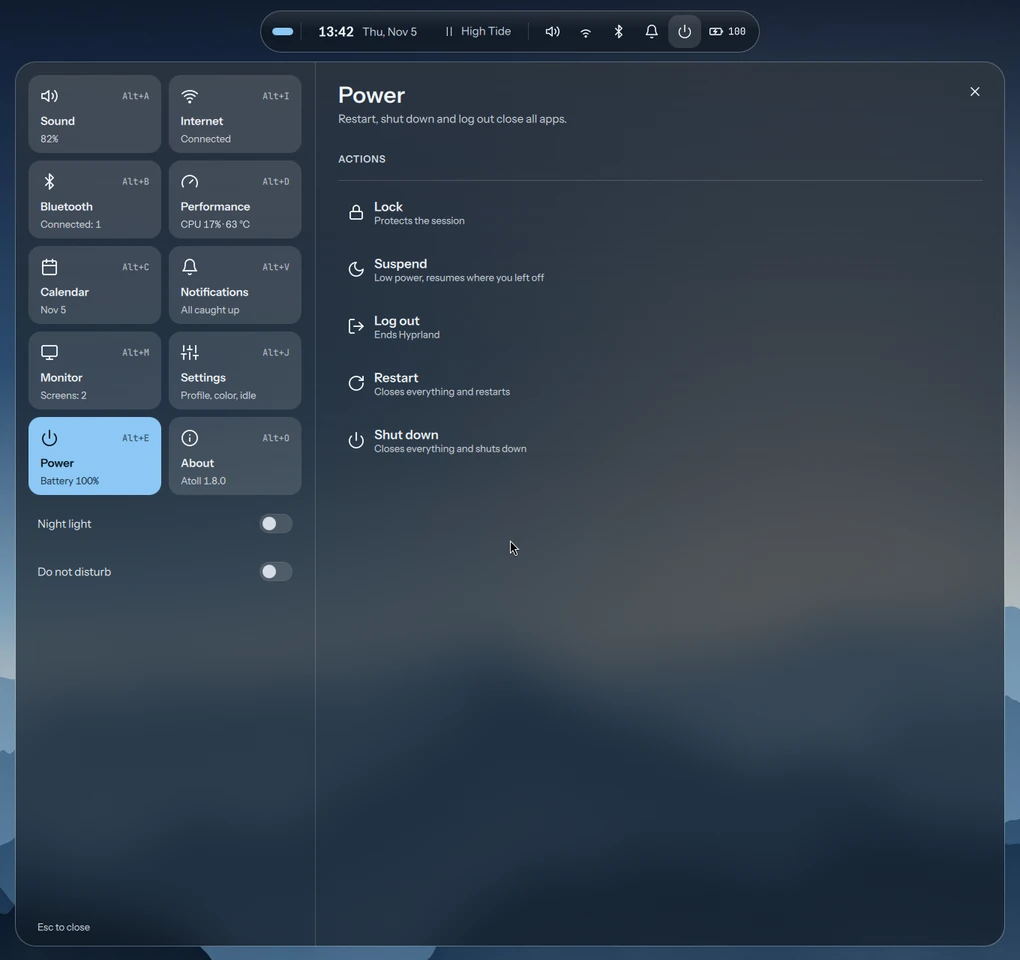
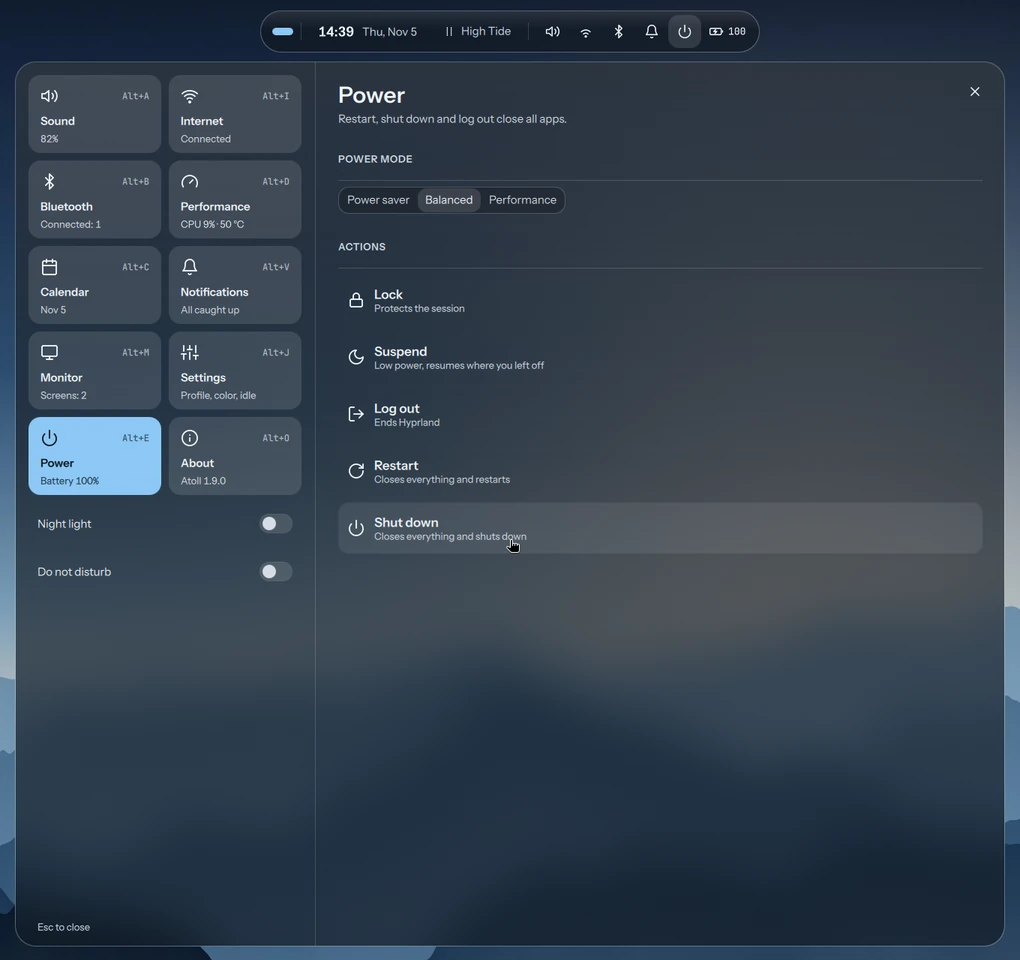
feat: one-click update in About and an AUR package definition
About can now install a newer release and restart the shell. When a package
manager owns the installation it points to that instead.

diff --git a/shell/PgAbout.qml b/shell/PgAbout.qml
@@ -14,7 +14,9 @@ Page {
         return out
     }
     property string latest: ""
-    property string updateState: "idle" // idle, checking, failed, done
+    property string updateState: "idle" // idle, checking, failed, done, updating
+    property string updateError: ""
+    property bool packaged: false // installed by a package manager, which then owns updates
     readonly property bool hasUpdate: !!latest && P.newerVersion(latest, Ui.version)
     readonly property string report: "Atoll " + Ui.version + "\n" + facts.trim() + "\nMemory=" + P.bytes(Sys.memInfo.total)
 
@@ -41,6 +43,22 @@ Page {
             echo "GPU=$(command -v lspci >/dev/null && lspci | grep -Ei 'vga|3d' | head -1 | cut -d: -f3- | sed 's/^ *//; s/ Corporation//; s/ (rev.*//')"
         `]
         stdout: StdioCollector { onStreamFinished: pg.facts = text }
+    }
+    Process {
+        running: true
+        command: ["test", "-e", "/usr/share/atoll/VERSION"]
+        onExited: code => pg.packaged = code === 0
+    }
+    Process {
+        id: updater
+        command: [Quickshell.env("HOME") + "/.local/share/atoll/scripts/self-update", pg.latest]
+        stderr: StdioCollector {}
+        // On success the script restarts the shell, so this page only ever sees failures.
+        onExited: code => {
+            if (code === 0) return
+            pg.updateError = Tr.t("Couldn't update. Check your connection.")
+            pg.updateState = "done"
+        }
     }
     Process {
         id: checker
@@ -71,13 +89,23 @@ Page {
             anchors.fill: parent; anchors.leftMargin: 16; anchors.rightMargin: 12; spacing: 12
             Tx {
                 Layout.fillWidth: true; strong: true
-                color: pg.updateState === "failed" ? Theme.danger : pg.updateState === "done" ? Theme.good : Theme.muted
+                color: pg.updateState === "failed" || pg.updateError ? Theme.danger : pg.updateState === "done" ? Theme.good : Theme.muted
                 text: pg.updateState === "checking" ? Tr.t("Checking…")
+                    : pg.updateState === "updating" ? Tr.t("Updating…")
+                    : pg.updateError ? pg.updateError
+                    : pg.hasUpdate && pg.packaged ? Tr.t("Version %1 is available. Update the package, then run atoll-setup.").arg(pg.latest)
                     : pg.updateState === "failed" ? Tr.t("Couldn't check. Check your connection.")
                     : pg.updateState !== "done" ? Tr.t("Not checked yet")
                     : pg.hasUpdate ? Tr.t("Version %1 is available").arg(pg.latest) : Tr.t("You have the latest version")
             }
             Link { visible: pg.hasUpdate; text: Tr.t("See what's new"); url: pg.repo + "/releases/latest" }
+            Btn {
+                visible: pg.hasUpdate && !pg.packaged
+                variant: "solid"
+                text: Tr.t("Update now")
+                enabledB: pg.updateState === "done"
+                onClicked: { pg.updateError = ""; pg.updateState = "updating"; updater.running = true }
+            }
             Btn {
                 text: Tr.t("Check for updates")
                 enabledB: pg.updateState !== "checking"

diff --git a/README.md b/README.md
@@ -22,14 +22,16 @@ wallpaper, and windows keep the rest of the screen.
 - **Control center:** sound, internet, Bluetooth, performance, calendar, notifications, monitor, settings, about and power.
 - **Music card:** cover art, colors taken from the album, seek bar, repeat, shuffle, likes, volume and output switching.
 - **Notifications and volume:** glass cards that drop from under the island.
-- **Search:** apps and system screens in one box. Type "wifi" or "volume".
+- **Search:** apps, system screens, clipboard history, emoji and screenshots in one place. Type "wifi" or "volume".
 - **Languages:** English, Português (Brasil), Español, Français, Deutsch, Русский and 简体中文. It follows your system language, or pick one in Settings.
 - **Lock screen:** a large clock, the current song and your profile's name and picture over your sharp wallpaper. It also greets you when waking from suspend, with no flash of the desktop.
-- **Profiles:** each one keeps its own name, picture and wallpaper (from galleries you add to), language, accent, dock and idle times. Create and switch them in Settings.
+- **Profiles:** each one keeps its own name, picture and wallpaper (from galleries you add to and remove from, with a wallpaper per screen if you like), language, accent, dock and idle times. Create and switch them in Settings.
 - **Public holidays:** for over 200 countries in the calendar, or none. Choose in Settings.
 - **Monitors:** drag your screens into place, and set resolution, refresh rate, scale, rotation, mirroring, VRR, brightness, workspaces and what closing the lid does. A new layout goes back by itself in 15 seconds unless you keep it.
-- **Idle:** lock, screen off and suspend times per power source, each with a Never option, and night light.
-- **About:** version, update check, project links and system details to paste in a bug report.
+- **Idle and power:** lock, screen off and suspend times per power source, each with a Never option, power modes, and a night light with its own schedule.
+- **Keyboard and mouse:** layouts, pointer speed, natural scrolling and touchpad options in Settings.
+- **Internet:** Wi-Fi with hidden and enterprise (802.1X) networks, plus WireGuard and OpenVPN files you import.
+- **About:** version, one-click update, project links and system details to paste in a bug report.
 - **Resilient by design:** if the shell crashes, it restarts by itself. Your windows stay open.
 
 ## Screenshots
@@ -71,7 +73,8 @@ Screenshots use demo data.
 - **Hyprland with Lua configuration.** Developed on 0.56.2. Older versions without `hl.*` will not work.
 - **Quickshell** 0.3 or newer.
 - NetworkManager, BlueZ and PipeWire with WirePlumber for the matching screens.
-- Noto fonts (`noto-fonts`, `noto-fonts-cjk`) to display Russian and Chinese.
+- Noto fonts (`noto-fonts`, `noto-fonts-cjk`, `noto-fonts-emoji`) to display Russian, Chinese and emoji.
+- Optional: `power-profiles-daemon` for power modes, `networkmanager-openvpn` for OpenVPN files.
 
 Atoll is developed and tested on one machine: Arch Linux with an Intel GPU. Other distributions and
 GPUs may work, and reports are welcome.
@@ -84,6 +87,13 @@ On Arch Linux:
 git clone https://github.com/brayanspagnol/atoll.git
 cd atoll
 ./install.sh --deps
+```
+
+Or from the AUR, then run the setup as your own user:
+
+```sh
+yay -S atoll
+atoll-setup
 ```
 
 On other distributions, install the packages listed in `install.sh` and run `./install.sh`.
@@ -111,6 +121,7 @@ for `sudo`; everything else stays in your home directory. See `./install.sh --he
 | `Super+Alt+A` / `I` / `B` / `D` | Sound / Internet / Bluetooth / Performance |
 | `Super+Alt+C` / `V` / `J` / `E` | Calendar / Notifications / Settings / Power |
 | `Super+Alt+M` / `O` | Monitor / About |
+| `Super+Shift+V` / `Super+.` | Clipboard history / Emoji |
 | `Super+Enter` | Terminal |
 | `Super+B` / `E` | Browser / Files |
 | `Super+C` | Close window |
@@ -154,7 +165,7 @@ hl.bind("SUPER + Return", hl.dsp.exec_cmd("foot"))
 ## Update and remove
 
 ```sh
-git pull && ./install.sh   # update; settings, events and likes stay
+git pull && ./install.sh   # update; settings, events and likes stay. About can also do this in one click
 ./uninstall.sh             # remove; add --purge to delete your data too
 ```
 
@@ -172,7 +183,7 @@ git pull && ./install.sh   # update; settings, events and likes stay
 
 ## Privacy
 
-Atoll needs no account and sends no telemetry. Two features use the network. The update check in About asks GitHub for the latest release, only when you click it. And when you open the calendar or Settings, it
+Atoll needs no account and sends no telemetry. Notification history, which can include message text, stays on your computer in `~/.local/state/atoll`, readable only by you; Clear all erases it. Two features use the network. The update check in About asks GitHub for the latest release, only when you click it. And when you open the calendar or Settings, it
 downloads public holidays from [date.nager.at](https://date.nager.at), which sees your IP address and the country and years
 requested. Results stay cached in `~/.cache/atoll/holidays`. Set `holidays` to `off` to turn this off.
 

diff --git a/README.pt-BR.md b/README.pt-BR.md
@@ -20,14 +20,16 @@ Os prints estão no [README em inglês](README.md#screenshots).
 - **Central:** som, internet, Bluetooth, desempenho, calendário, avisos, monitor, ajustes, sobre e energia.
 - **Cartão de música:** capa, cores tiradas do álbum, barra de tempo, repetir, aleatório, curtidas, volume e troca de saída.
 - **Avisos e volume:** cartões de vidro que descem de baixo da ilha.
-- **Busca:** aplicativos e telas do sistema no mesmo lugar. Digite "wifi" ou "volume".
+- **Busca:** aplicativos, telas do sistema, histórico da área de transferência, emoji e prints no mesmo lugar. Digite "wifi" ou "volume".
 - **Idiomas:** English, Português (Brasil), Español, Français, Deutsch, Русский e 简体中文. Segue o idioma do sistema, ou escolha em Ajustes.
 - **Tela de bloqueio:** relógio grande, música atual, nome e foto do perfil, sobre o seu papel de parede nítido. Ela também recebe você ao voltar da suspensão, sem o desktop piscar antes.
-- **Perfis:** cada um guarda nome, foto e papel de parede (de galerias que você vai adicionando), idioma, cor, dock e tempos de ociosidade. Crie e troque em Ajustes.
+- **Perfis:** cada um guarda nome, foto e papel de parede (de galerias em que você adiciona e remove, com um papel de parede por tela se quiser), idioma, cor, dock e tempos de ociosidade. Crie e troque em Ajustes.
 - **Feriados:** de mais de 200 países no calendário, ou nenhum. Escolha em Ajustes.
 - **Monitores:** arraste as telas para posicionar e ajuste resolução, taxa, escala, rotação, espelhamento, VRR, brilho, áreas de trabalho e o que fechar a tampa faz. Uma disposição nova volta sozinha em 15 segundos se você não mantiver.
-- **Ociosidade:** tempos de bloqueio, desligar a tela e suspender para tomada e bateria, cada um com a opção Nunca, e luz noturna.
-- **Sobre:** versão, busca por atualização, links do projeto e dados do sistema para relatar bugs.
+- **Ociosidade e energia:** tempos de bloqueio, desligar a tela e suspender para tomada e bateria, cada um com a opção Nunca, modos de energia e luz noturna com horário próprio.
+- **Teclado e mouse:** layouts, velocidade do ponteiro, rolagem natural e opções do touchpad em Ajustes.
+- **Internet:** Wi-Fi com redes ocultas e corporativas (802.1X), mais arquivos WireGuard e OpenVPN que você importa.
+- **Sobre:** versão, atualização com um clique, links do projeto e dados do sistema para relatar bugs.
 - **Resistente:** se o shell cair, ele volta sozinho. Suas janelas continuam abertas.
 
 ## Requisitos
@@ -48,6 +50,13 @@ No Arch Linux:
 git clone https://github.com/brayanspagnol/atoll.git
 cd atoll
 ./install.sh --deps
+```
+
+Ou pelo AUR, e rode a configuração com seu próprio usuário:
+
+```sh
+yay -S atoll
+atoll-setup
 ```
 
 Em outras distribuições, instale os pacotes listados em `install.sh` e rode `./install.sh`.
@@ -75,6 +84,7 @@ Para escolher o Atoll no gerenciador de login, rode também `./install.sh --sess
 | `Super+Alt+A` / `I` / `B` / `D` | Som / Internet / Bluetooth / Desempenho |
 | `Super+Alt+C` / `V` / `J` / `E` | Calendário / Avisos / Ajustes / Energia |
 | `Super+Alt+M` / `O` | Monitor / Sobre |
+| `Super+Shift+V` / `Super+.` | Área de transferência / Emoji |
 | `Super+Enter` | Terminal |
 | `Super+B` / `E` | Navegador / Arquivos |
 | `Super+C` | Fechar janela |
@@ -118,7 +128,7 @@ hl.bind("SUPER + Return", hl.dsp.exec_cmd("foot"))
 ## Atualizar e remover
 
 ```sh
-git pull && ./install.sh   # atualiza; ajustes, eventos e curtidas ficam
+git pull && ./install.sh   # atualiza; ajustes, eventos e curtidas ficam. Sobre também faz isso com um clique
 ./uninstall.sh             # remove; com --purge apaga seus dados também
 ```
 
@@ -136,7 +146,7 @@ git pull && ./install.sh   # atualiza; ajustes, eventos e curtidas ficam
 
 ## Privacidade
 
-O Atoll não pede conta nem envia telemetria. Dois recursos usam a rede. A busca por atualização em Sobre consulta o GitHub, só quando você clica. E ao abrir o calendário ou os Ajustes, ele baixa feriados de
+O Atoll não pede conta nem envia telemetria. O histórico de avisos, que pode ter texto de mensagens, fica no seu computador em `~/.local/state/atoll`, legível só por você; Limpar tudo apaga. Dois recursos usam a rede. A busca por atualização em Sobre consulta o GitHub, só quando você clica. E ao abrir o calendário ou os Ajustes, ele baixa feriados de
 [date.nager.at](https://date.nager.at), que vê seu IP, o país e os anos pedidos. O resultado fica em `~/.cache/atoll/holidays`.
 Para desligar, deixe `holidays` em `off`.
 

diff --git a/CHANGELOG.md b/CHANGELOG.md
@@ -6,6 +6,27 @@ All notable changes to this project are documented here. The format follows
 
 ## [Unreleased]
 
+## [1.9.0] - 2026-11-05
+
+### Added
+
+- Keyboard and mouse in Settings: layouts, pointer speed, natural scrolling and touchpad options.
+- Clipboard history, emoji and screenshots in Search. `Super+Shift+V` and `Super+.` open them directly.
+- Power modes in the Power screen, with `power-profiles-daemon`.
+- A schedule for the night light.
+- A wallpaper per screen.
+- Remove images from the photo and wallpaper galleries.
+- Drag icons to reorder the dock in its editor.
+- Notifications are grouped by app, and their history survives a shell restart.
+- Hidden and enterprise (802.1X) Wi-Fi networks.
+- VPN section: import WireGuard and OpenVPN files, connect, disconnect and forget.
+- One-click update in About.
+- An AUR package definition in `packaging/aur`.
+
+### Removed
+
+- The wofi clipboard picker, replaced by Search.
+
 ## [1.8.0] - 2026-11-05
 
 ### Added
@@ -130,7 +151,8 @@ All notable changes to this project are documented here. The format follows
 - Lock screen, idle timers, night light and monitor brightness.
 - Installer, uninstaller, automated tests and an original default wallpaper.
 
-[Unreleased]: https://github.com/brayanspagnol/atoll/compare/v1.8.0...HEAD
+[Unreleased]: https://github.com/brayanspagnol/atoll/compare/v1.9.0...HEAD
+[1.9.0]: https://github.com/brayanspagnol/atoll/compare/v1.8.0...v1.9.0
 [1.8.0]: https://github.com/brayanspagnol/atoll/compare/v1.7.1...v1.8.0
 [1.7.1]: https://github.com/brayanspagnol/atoll/compare/v1.7.0...v1.7.1
 [1.7.0]: https://github.com/brayanspagnol/atoll/compare/v1.6.1...v1.7.0

diff --git a/CONTRIBUTING.md b/CONTRIBUTING.md
@@ -11,6 +11,7 @@ Thanks for helping. Issues and pull requests can be written in English or Portug
 | `scripts/` | Session helpers installed to `~/.local/share/atoll/scripts` |
 | `config/` | Lock screen and default idle configuration |
 | `tests/` | Automated tests for the pure logic |
+| `packaging/aur/` | AUR package definition |
 
 ## Test your change
 
